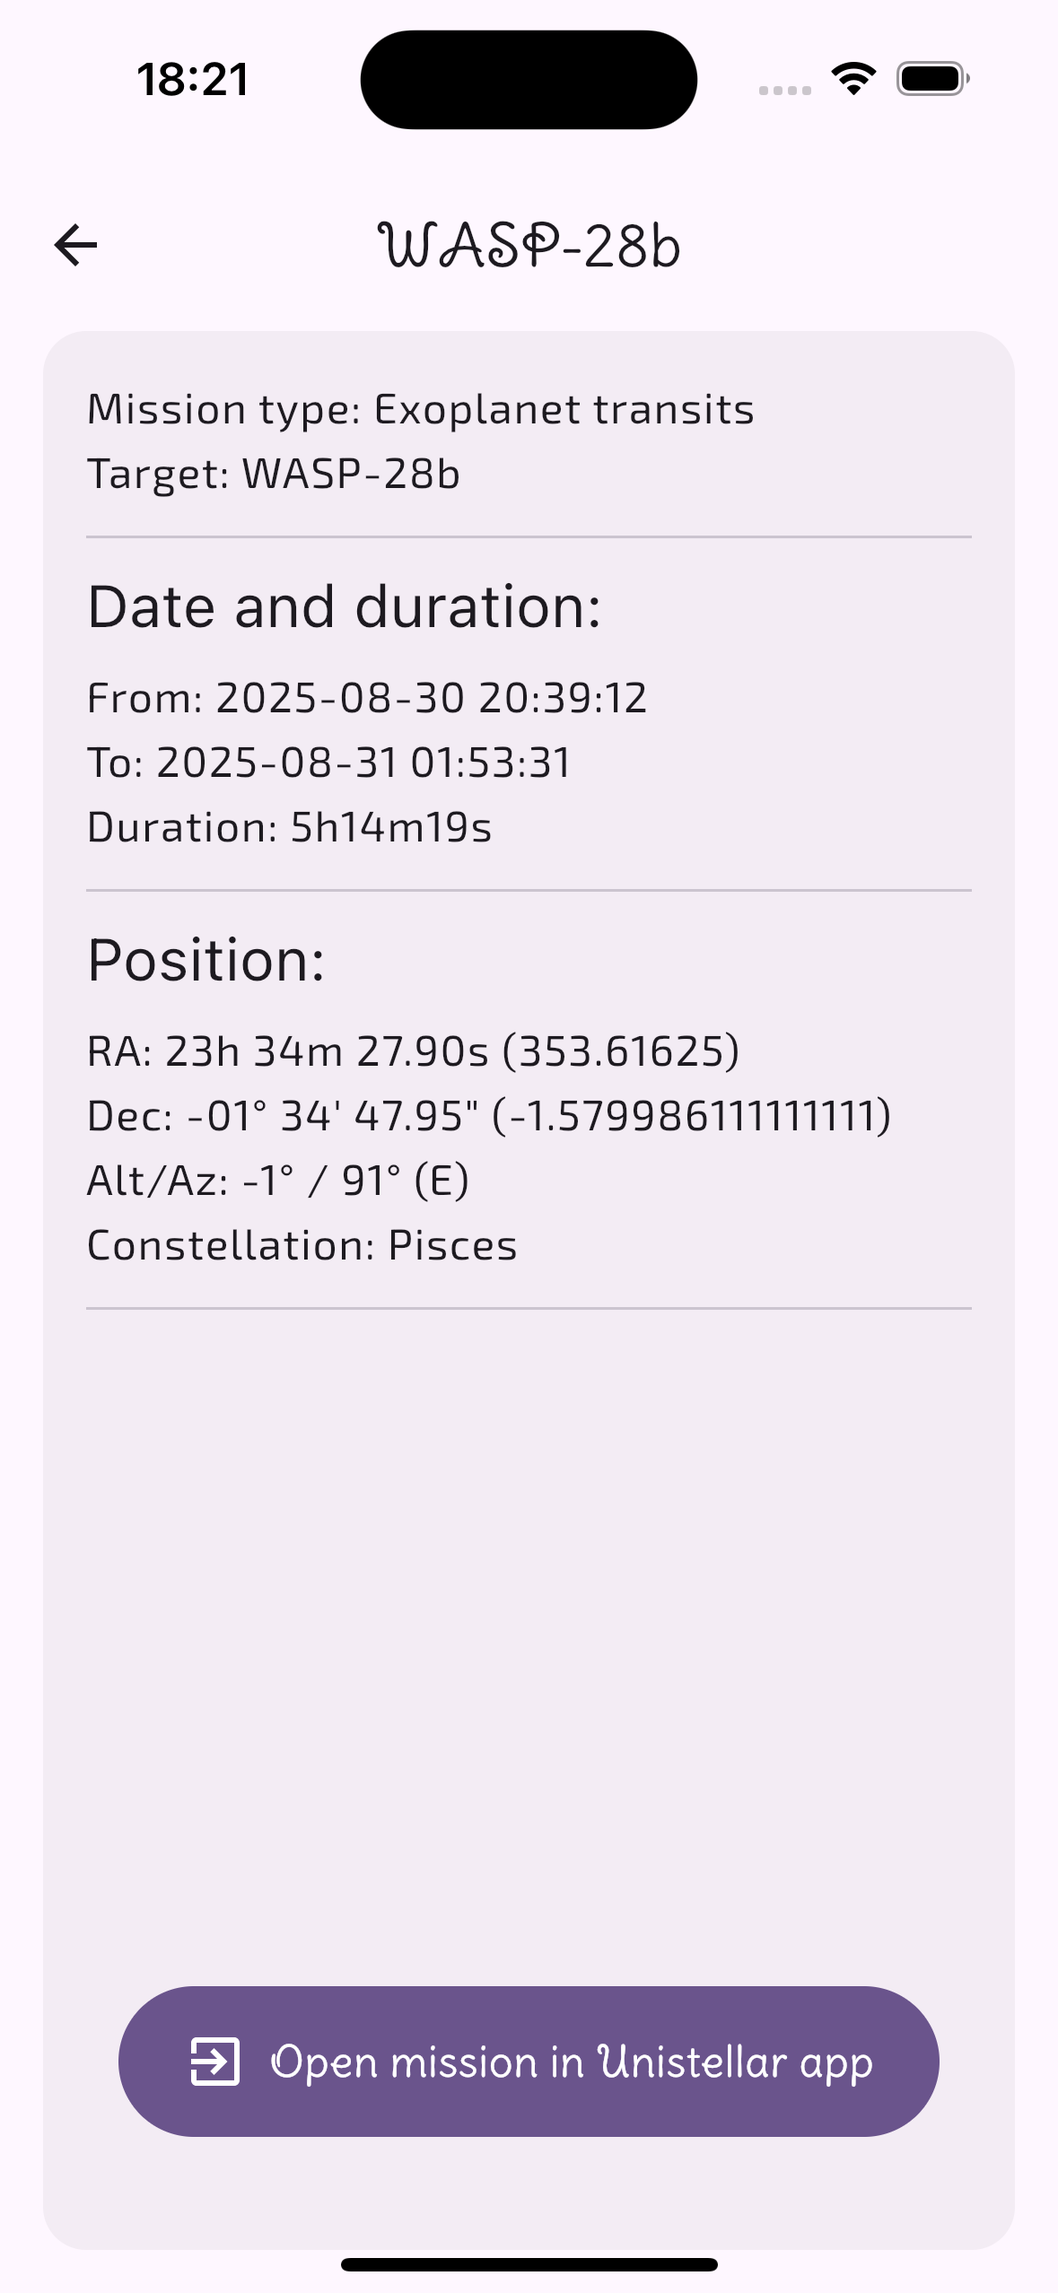
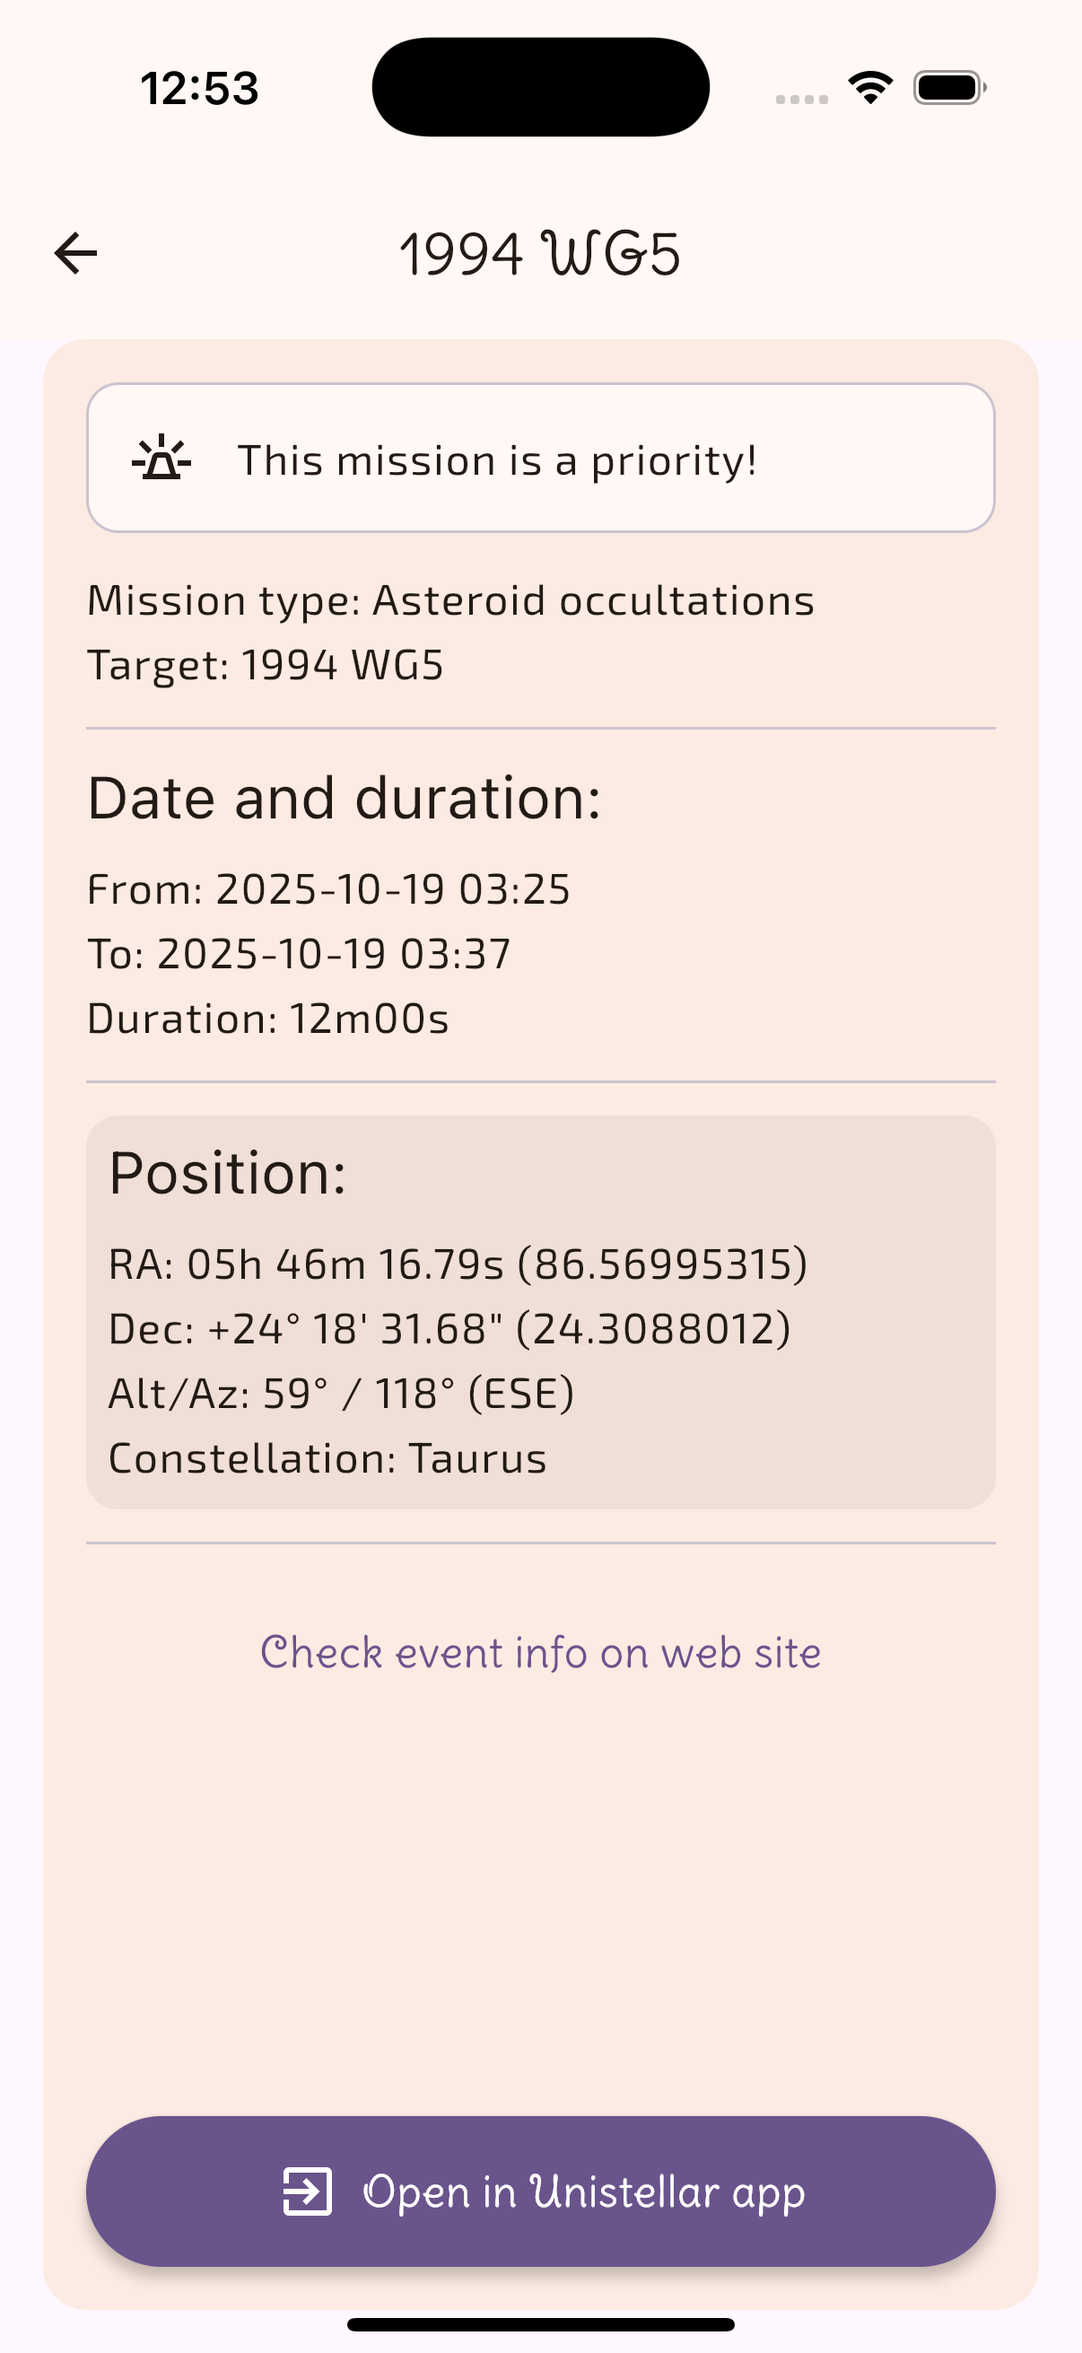
Update UI color and padding, fix comet data fetching and update some libs. Also update screenshots to reflect new color scheme and UI.

diff --git a/composeApp/src/commonMain/kotlin/com/domnis/nebuni/ui/theme/Color.kt b/composeApp/src/commonMain/kotlin/com/domnis/nebuni/ui/theme/Color.kt
@@ -37,23 +37,23 @@ val errorContainerLight = Color(0xFFFFDAD6)
 val onErrorContainerLight = Color(0xFF93000A)
 val backgroundLight = Color(0xFFFEF7FF)
 val onBackgroundLight = Color(0xFF1D1A20)
-val surfaceLight = Color(0xFFFEF7FF)
-val onSurfaceLight = Color(0xFF1D1A20)
+val surfaceLight = Color(0xFFFFF8F5)
+val onSurfaceLight = Color(0xFF221A15)
 val surfaceVariantLight = Color(0xFFE8E0EB)
 val onSurfaceVariantLight = Color(0xFF4A454E)
 val outlineLight = Color(0xFF7B757F)
 val outlineVariantLight = Color(0xFFCBC4CF)
 val scrimLight = Color(0xFF000000)
-val inverseSurfaceLight = Color(0xFF322F35)
-val inverseOnSurfaceLight = Color(0xFFF6EEF7)
+val inverseSurfaceLight = Color(0xFF382E29)
+val inverseOnSurfaceLight = Color(0xFFFFEDE5)
 val inversePrimaryLight = Color(0xFFD6BBFC)
-val surfaceDimLight = Color(0xFFDFD8E0)
-val surfaceBrightLight = Color(0xFFFEF7FF)
+val surfaceDimLight = Color(0xFFE7D7CF)
+val surfaceBrightLight = Color(0xFFFFF8F5)
 val surfaceContainerLowestLight = Color(0xFFFFFFFF)
-val surfaceContainerLowLight = Color(0xFFF9F1F9)
-val surfaceContainerLight = Color(0xFFF3ECF4)
-val surfaceContainerHighLight = Color(0xFFEDE6EE)
-val surfaceContainerHighestLight = Color(0xFFE7E0E8)
+val surfaceContainerLowLight = Color(0xFFFFF1EA)
+val surfaceContainerLight = Color(0xFFFCEBE2)
+val surfaceContainerHighLight = Color(0xFFF6E5DC)
+val surfaceContainerHighestLight = Color(0xFFF0DFD7)
 
 val primaryLightMediumContrast = Color(0xFF412B61)
 val onPrimaryLightMediumContrast = Color(0xFFFFFFFF)
@@ -73,23 +73,23 @@ val errorContainerLightMediumContrast = Color(0xFFCF2C27)
 val onErrorContainerLightMediumContrast = Color(0xFFFFFFFF)
 val backgroundLightMediumContrast = Color(0xFFFEF7FF)
 val onBackgroundLightMediumContrast = Color(0xFF1D1A20)
-val surfaceLightMediumContrast = Color(0xFFFEF7FF)
-val onSurfaceLightMediumContrast = Color(0xFF131015)
+val surfaceLightMediumContrast = Color(0xFFFFF8F5)
+val onSurfaceLightMediumContrast = Color(0xFF17100B)
 val surfaceVariantLightMediumContrast = Color(0xFFE8E0EB)
 val onSurfaceVariantLightMediumContrast = Color(0xFF39343D)
 val outlineLightMediumContrast = Color(0xFF55515A)
 val outlineVariantLightMediumContrast = Color(0xFF716B75)
 val scrimLightMediumContrast = Color(0xFF000000)
-val inverseSurfaceLightMediumContrast = Color(0xFF322F35)
-val inverseOnSurfaceLightMediumContrast = Color(0xFFF6EEF7)
+val inverseSurfaceLightMediumContrast = Color(0xFF382E29)
+val inverseOnSurfaceLightMediumContrast = Color(0xFFFFEDE5)
 val inversePrimaryLightMediumContrast = Color(0xFFD6BBFC)
-val surfaceDimLightMediumContrast = Color(0xFFCBC4CC)
-val surfaceBrightLightMediumContrast = Color(0xFFFEF7FF)
+val surfaceDimLightMediumContrast = Color(0xFFD3C3BB)
+val surfaceBrightLightMediumContrast = Color(0xFFFFF8F5)
 val surfaceContainerLowestLightMediumContrast = Color(0xFFFFFFFF)
-val surfaceContainerLowLightMediumContrast = Color(0xFFF9F1F9)
-val surfaceContainerLightMediumContrast = Color(0xFFEDE6EE)
-val surfaceContainerHighLightMediumContrast = Color(0xFFE1DBE3)
-val surfaceContainerHighestLightMediumContrast = Color(0xFFD6CFD7)
+val surfaceContainerLowLightMediumContrast = Color(0xFFFFF1EA)
+val surfaceContainerLightMediumContrast = Color(0xFFF6E5DC)
+val surfaceContainerHighLightMediumContrast = Color(0xFFEADAD1)
+val surfaceContainerHighestLightMediumContrast = Color(0xFFDFCEC6)
 
 val primaryLightHighContrast = Color(0xFF362056)
 val onPrimaryLightHighContrast = Color(0xFFFFFFFF)
@@ -109,23 +109,23 @@ val errorContainerLightHighContrast = Color(0xFF98000A)
 val onErrorContainerLightHighContrast = Color(0xFFFFFFFF)
 val backgroundLightHighContrast = Color(0xFFFEF7FF)
 val onBackgroundLightHighContrast = Color(0xFF1D1A20)
-val surfaceLightHighContrast = Color(0xFFFEF7FF)
+val surfaceLightHighContrast = Color(0xFFFFF8F5)
 val onSurfaceLightHighContrast = Color(0xFF000000)
 val surfaceVariantLightHighContrast = Color(0xFFE8E0EB)
 val onSurfaceVariantLightHighContrast = Color(0xFF000000)
 val outlineLightHighContrast = Color(0xFF2E2B33)
 val outlineVariantLightHighContrast = Color(0xFF4C4750)
 val scrimLightHighContrast = Color(0xFF000000)
-val inverseSurfaceLightHighContrast = Color(0xFF322F35)
+val inverseSurfaceLightHighContrast = Color(0xFF382E29)
 val inverseOnSurfaceLightHighContrast = Color(0xFFFFFFFF)
 val inversePrimaryLightHighContrast = Color(0xFFD6BBFC)
-val surfaceDimLightHighContrast = Color(0xFFBDB7BE)
-val surfaceBrightLightHighContrast = Color(0xFFFEF7FF)
+val surfaceDimLightHighContrast = Color(0xFFC5B6AE)
+val surfaceBrightLightHighContrast = Color(0xFFFFF8F5)
 val surfaceContainerLowestLightHighContrast = Color(0xFFFFFFFF)
-val surfaceContainerLowLightHighContrast = Color(0xFFF6EEF7)
-val surfaceContainerLightHighContrast = Color(0xFFE7E0E8)
-val surfaceContainerHighLightHighContrast = Color(0xFFD9D2DA)
-val surfaceContainerHighestLightHighContrast = Color(0xFFCBC4CC)
+val surfaceContainerLowLightHighContrast = Color(0xFFFFEDE5)
+val surfaceContainerLightHighContrast = Color(0xFFF0DFD7)
+val surfaceContainerHighLightHighContrast = Color(0xFFE2D1C9)
+val surfaceContainerHighestLightHighContrast = Color(0xFFD3C3BB)
 
 val primaryDark = Color(0xFFD6BBFC)
 val onPrimaryDark = Color(0xFF3B255B)
@@ -145,23 +145,23 @@ val errorContainerDark = Color(0xFF93000A)
 val onErrorContainerDark = Color(0xFFFFDAD6)
 val backgroundDark = Color(0xFF151218)
 val onBackgroundDark = Color(0xFFE7E0E8)
-val surfaceDark = Color(0xFF151218)
-val onSurfaceDark = Color(0xFFE7E0E8)
+val surfaceDark = Color(0xFF1A120D)
+val onSurfaceDark = Color(0xFFF0DFD7)
 val surfaceVariantDark = Color(0xFF4A454E)
 val onSurfaceVariantDark = Color(0xFFCBC4CF)
 val outlineDark = Color(0xFF958E99)
 val outlineVariantDark = Color(0xFF4A454E)
 val scrimDark = Color(0xFF000000)
-val inverseSurfaceDark = Color(0xFFE7E0E8)
-val inverseOnSurfaceDark = Color(0xFF322F35)
+val inverseSurfaceDark = Color(0xFFF0DFD7)
+val inverseOnSurfaceDark = Color(0xFF382E29)
 val inversePrimaryDark = Color(0xFF6A548C)
-val surfaceDimDark = Color(0xFF151218)
-val surfaceBrightDark = Color(0xFF3B383E)
-val surfaceContainerLowestDark = Color(0xFF100D12)
-val surfaceContainerLowDark = Color(0xFF1D1A20)
-val surfaceContainerDark = Color(0xFF211E24)
-val surfaceContainerHighDark = Color(0xFF2C292F)
-val surfaceContainerHighestDark = Color(0xFF37333A)
+val surfaceDimDark = Color(0xFF1A120D)
+val surfaceBrightDark = Color(0xFF413731)
+val surfaceContainerLowestDark = Color(0xFF140D08)
+val surfaceContainerLowDark = Color(0xFF221A15)
+val surfaceContainerDark = Color(0xFF261E19)
+val surfaceContainerHighDark = Color(0xFF312823)
+val surfaceContainerHighestDark = Color(0xFF3D332D)
 
 val primaryDarkMediumContrast = Color(0xFFE8D5FF)
 val onPrimaryDarkMediumContrast = Color(0xFF2F1A4F)
@@ -181,23 +181,23 @@ val errorContainerDarkMediumContrast = Color(0xFFFF5449)
 val onErrorContainerDarkMediumContrast = Color(0xFF000000)
 val backgroundDarkMediumContrast = Color(0xFF151218)
 val onBackgroundDarkMediumContrast = Color(0xFFE7E0E8)
-val surfaceDarkMediumContrast = Color(0xFF151218)
+val surfaceDarkMediumContrast = Color(0xFF1A120D)
 val onSurfaceDarkMediumContrast = Color(0xFFFFFFFF)
 val surfaceVariantDarkMediumContrast = Color(0xFF4A454E)
 val onSurfaceVariantDarkMediumContrast = Color(0xFFE2DAE5)
 val outlineDarkMediumContrast = Color(0xFFB6AFBA)
 val outlineVariantDarkMediumContrast = Color(0xFF948E98)
 val scrimDarkMediumContrast = Color(0xFF000000)
-val inverseSurfaceDarkMediumContrast = Color(0xFFE7E0E8)
-val inverseOnSurfaceDarkMediumContrast = Color(0xFF2C292F)
+val inverseSurfaceDarkMediumContrast = Color(0xFFF0DFD7)
+val inverseOnSurfaceDarkMediumContrast = Color(0xFF312823)
 val inversePrimaryDarkMediumContrast = Color(0xFF533D74)
-val surfaceDimDarkMediumContrast = Color(0xFF151218)
-val surfaceBrightDarkMediumContrast = Color(0xFF474349)
-val surfaceContainerLowestDarkMediumContrast = Color(0xFF08070B)
-val surfaceContainerLowDarkMediumContrast = Color(0xFF1F1C22)
-val surfaceContainerDarkMediumContrast = Color(0xFF2A272D)
-val surfaceContainerHighDarkMediumContrast = Color(0xFF353137)
-val surfaceContainerHighestDarkMediumContrast = Color(0xFF403C43)
+val surfaceDimDarkMediumContrast = Color(0xFF1A120D)
+val surfaceBrightDarkMediumContrast = Color(0xFF4D423C)
+val surfaceContainerLowestDarkMediumContrast = Color(0xFF0C0603)
+val surfaceContainerLowDarkMediumContrast = Color(0xFF241C17)
+val surfaceContainerDarkMediumContrast = Color(0xFF2F2621)
+val surfaceContainerHighDarkMediumContrast = Color(0xFF3A312B)
+val surfaceContainerHighestDarkMediumContrast = Color(0xFF463C36)
 
 val primaryDarkHighContrast = Color(0xFFF7ECFF)
 val onPrimaryDarkHighContrast = Color(0xFF000000)
@@ -217,20 +217,20 @@ val errorContainerDarkHighContrast = Color(0xFFFFAEA4)
 val onErrorContainerDarkHighContrast = Color(0xFF220001)
 val backgroundDarkHighContrast = Color(0xFF151218)
 val onBackgroundDarkHighContrast = Color(0xFFE7E0E8)
-val surfaceDarkHighContrast = Color(0xFF151218)
+val surfaceDarkHighContrast = Color(0xFF1A120D)
 val onSurfaceDarkHighContrast = Color(0xFFFFFFFF)
 val surfaceVariantDarkHighContrast = Color(0xFF4A454E)
 val onSurfaceVariantDarkHighContrast = Color(0xFFFFFFFF)
 val outlineDarkHighContrast = Color(0xFFF6EDF9)
 val outlineVariantDarkHighContrast = Color(0xFFC7C0CB)
 val scrimDarkHighContrast = Color(0xFF000000)
-val inverseSurfaceDarkHighContrast = Color(0xFFE7E0E8)
+val inverseSurfaceDarkHighContrast = Color(0xFFF0DFD7)
 val inverseOnSurfaceDarkHighContrast = Color(0xFF000000)
 val inversePrimaryDarkHighContrast = Color(0xFF533D74)
-val surfaceDimDarkHighContrast = Color(0xFF151218)
-val surfaceBrightDarkHighContrast = Color(0xFF534F55)
+val surfaceDimDarkHighContrast = Color(0xFF1A120D)
+val surfaceBrightDarkHighContrast = Color(0xFF594E48)
 val surfaceContainerLowestDarkHighContrast = Color(0xFF000000)
-val surfaceContainerLowDarkHighContrast = Color(0xFF211E24)
-val surfaceContainerDarkHighContrast = Color(0xFF322F35)
-val surfaceContainerHighDarkHighContrast = Color(0xFF3E3A40)
-val surfaceContainerHighestDarkHighContrast = Color(0xFF49454C)
+val surfaceContainerLowDarkHighContrast = Color(0xFF261E19)
+val surfaceContainerDarkHighContrast = Color(0xFF382E29)
+val surfaceContainerHighDarkHighContrast = Color(0xFF443934)
+val surfaceContainerHighestDarkHighContrast = Color(0xFF4F453F)

diff --git a/composeApp/src/commonMain/kotlin/com/domnis/nebuni/ui/main/MainViewModel.kt b/composeApp/src/commonMain/kotlin/com/domnis/nebuni/ui/main/MainViewModel.kt
@@ -166,9 +166,9 @@ class MainViewModel(var appState: AppState, val database: AppDatabase): ViewMode
         viewModelScope.launch(Dispatchers.Default) {
             // first call need to be sync to clean up database if needed
             val newStartTime = getCurrentDateAndTimeWithOffset(0)
-            val newEndTime = getCurrentDateAndTimeWithOffset(0 + 2)
+            val newEndTime = getCurrentDateAndTimeWithOffset(2)
 
-            scienceMissionRepository.refreshScienceMissions(
+            val isSucceed = scienceMissionRepository.refreshScienceMissions(
                 appState.currentObservationPlace.value,
                 newStartTime,
                 newEndTime,
@@ -180,23 +180,26 @@ class MainViewModel(var appState: AppState, val database: AppDatabase): ViewMode
                 isLoadingMissions.value = false
             }
 
-            // get next chunk of data 3 days by 3 days
-            val maxIteration = 3
-            for (i in 1..maxIteration) {
-                //2 because only 3 day of asteroids occultation data per request
-                val dayOffset = i + 2 * i //2 because only 3 day of asteroids occultation data per request
-                val newStartTime = getCurrentDateAndTimeWithOffset(dayOffset)
-                val newEndTime = getCurrentDateAndTimeWithOffset(dayOffset + 2)
+            if (isSucceed) { // if first call is success, perform next calls
+                // get next chunk of data 3 days by 3 days
+                val maxIteration = 3
+                for (i in 1..maxIteration) {
+                    //2 because only 3 day of asteroids occultation data per request
+                    val dayOffset =
+                        i + 2 * i //2 because only 3 day of asteroids occultation data per request
+                    val newStartTime = getCurrentDateAndTimeWithOffset(dayOffset)
+                    val newEndTime = getCurrentDateAndTimeWithOffset(dayOffset + 2)
 
-                viewModelScope.launch(Dispatchers.Default) {
-                    scienceMissionRepository.refreshScienceMissions(
-                        appState.currentObservationPlace.value,
-                        newStartTime,
-                        newEndTime
-                    )
+                    viewModelScope.launch(Dispatchers.Default) {
+                        scienceMissionRepository.refreshScienceMissions(
+                            appState.currentObservationPlace.value,
+                            newStartTime,
+                            newEndTime
+                        )
 
-                    launch(Dispatchers.Main) {
-                        isLoadingMissions.value = false
+                        launch(Dispatchers.Main) {
+                            isLoadingMissions.value = false
+                        }
                     }
                 }
             }

diff --git a/composeApp/src/commonMain/kotlin/com/domnis/nebuni/repository/ScienceMissionRepository.kt b/composeApp/src/commonMain/kotlin/com/domnis/nebuni/repository/ScienceMissionRepository.kt
@@ -23,6 +23,7 @@ import com.domnis.nebuni.data.ObservationPlace
 import com.domnis.nebuni.data.ScienceMission
 import com.domnis.nebuni.data.ScienceMissionType
 import com.domnis.nebuni.database.AppDatabase
+import com.domnis.nebuni.getCurrentDateAndTime
 import com.domnis.nebuni.network.ScienceAPI
 import kotlinx.coroutines.CoroutineScope
 import kotlinx.coroutines.Dispatchers
@@ -42,7 +43,7 @@ class ScienceMissionRepository(private val database: AppDatabase) {
         startTime: String,
         endDate: String,
         canCleanDatabase: Boolean = false
-    ) {
+    ) : Boolean {
         val scienceAPI = ScienceAPI()
         val apiResult = scienceAPI.listScienceMissions(
             observationPlace = observationPlace,
@@ -74,6 +75,9 @@ class ScienceMissionRepository(private val database: AppDatabase) {
                     }
                 }
         }
+
+        // return true if API call is succeed
+        return apiResult.isNotEmpty()
     }
 
     @OptIn(ExperimentalTime::class)
@@ -100,7 +104,8 @@ class ScienceMissionRepository(private val database: AppDatabase) {
         // get new data from API
         val scienceAPI = ScienceAPI()
         val apiResult = scienceAPI.getCometMissionsEphemeris(
-            scienceMission = cometScienceMission
+            scienceMission = cometScienceMission,
+            fromStartDateTime = getCurrentDateAndTime(true)
         )
 
         if (apiResult.isNotEmpty()) {

diff --git a/composeApp/src/commonMain/kotlin/com/domnis/nebuni/database/EphemerisDataDao.kt b/composeApp/src/commonMain/kotlin/com/domnis/nebuni/database/EphemerisDataDao.kt
@@ -35,6 +35,11 @@ interface EphemerisDataDao {
     @Query("DELETE FROM EphemerisData WHERE missionKey NOT IN (:missionKeys) AND observationPlaceID = :observationPlaceID")
     suspend fun clearEphemerisData(missionKeys: List<String>, observationPlaceID: String)
 
-    @Query("SELECT * FROM EphemerisData WHERE missionKey = :missionKey AND observationPlaceID = :observationPlaceID AND timestamp > :timestamp")
+    @Query("SELECT * FROM EphemerisData " +
+            "WHERE missionKey = :missionKey " +
+            "AND observationPlaceID = :observationPlaceID " +
+            "AND timestamp >= :timestamp " +
+            "AND timestamp <= :timestamp + 36000000" //36 000 000 for 10 hours in milliseconds
+    )
     suspend fun getAllEphemerisData(missionKey: String, observationPlaceID: String, timestamp: Long): List<EphemerisData>
 }

diff --git a/composeApp/src/commonMain/kotlin/com/domnis/nebuni/network/ScienceAPI.kt b/composeApp/src/commonMain/kotlin/com/domnis/nebuni/network/ScienceAPI.kt
@@ -87,7 +87,8 @@ class ScienceAPI {
     }
 
     suspend fun getCometMissionsEphemeris(
-        scienceMission: ScienceMission
+        scienceMission: ScienceMission,
+        fromStartDateTime: String
     ): List<EphemerisData> {
         val args = scienceMission.ephemeris_args
         if (args == null) {
@@ -100,7 +101,7 @@ class ScienceAPI {
                 formParameters = parameters {
                     append("action", "get-ephemerid")
                     append("name", args.name)
-                    append("date", args.tstart)
+                    append("date", fromStartDateTime.ifEmpty { args.tstart })
                     append("lat", args.loc.split(",")[0])
                     append("lng", args.loc.split(",")[1])
                     append("step", "10")

diff --git a/composeApp/src/commonMain/kotlin/com/domnis/nebuni/ui/main/MainPage.kt b/composeApp/src/commonMain/kotlin/com/domnis/nebuni/ui/main/MainPage.kt
@@ -187,9 +187,7 @@ fun MainPage(mainViewModel: MainViewModel = koinViewModel(), appState: AppState 
                         modifier = Modifier.fillMaxSize(),
                         contentAlignment = Alignment.TopCenter,
                     ) {
-                        Column(
-                            verticalArrangement = Arrangement.spacedBy(8.dp)
-                        ) {
+                        Column {
                             if (
                                 currentObservationPlaceConfigurationState
                                     != MainViewModel.ObservationPlaceConfigurationState.invalid

diff --git a/composeApp/src/commonMain/kotlin/com/domnis/nebuni/Utils.kt b/composeApp/src/commonMain/kotlin/com/domnis/nebuni/Utils.kt
@@ -45,13 +45,16 @@ fun getCurrentDate(
     })
 }
 @OptIn(ExperimentalTime::class)
-fun getCurrentDateAndTime() : String {
+fun getCurrentDateAndTime(withSecond: Boolean = false) : String {
     val now = kotlin.time.Clock.System.now()
     val zone = TimeZone.UTC
     return now.toLocalDateTime(zone).format(LocalDateTime.Format {
         date(LocalDate.Formats.ISO)
         char('T')
         hour(); char(':'); minute()
+        if (withSecond) {
+            char(':'); second()
+        }
     })
 }
 

diff --git a/composeApp/src/commonMain/kotlin/com/domnis/nebuni/ui/main/ListPaneStatePages.kt b/composeApp/src/commonMain/kotlin/com/domnis/nebuni/ui/main/ListPaneStatePages.kt
@@ -95,6 +95,10 @@ fun ListPaneValidPage(
         modifier = Modifier.fillMaxSize(),
         verticalArrangement = Arrangement.spacedBy(8.dp)
     ) {
+        item {
+            Spacer(modifier = Modifier.height(2.dp))
+        }
+
         scienceMissionList.forEach { section ->
             item {
                 Text(
